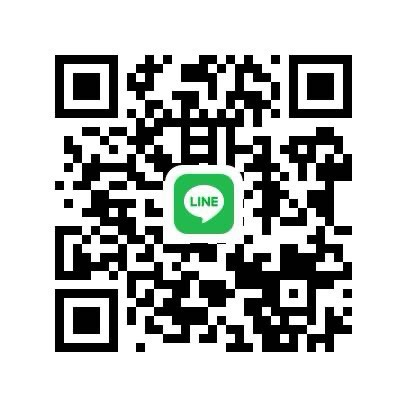
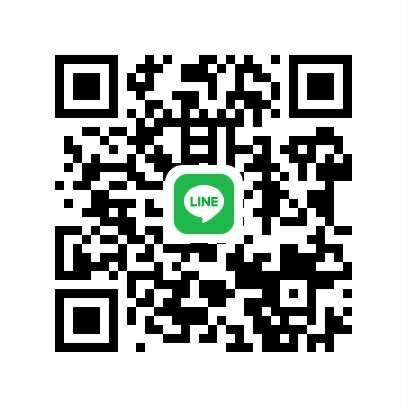
id line

Changed region(s): [[0.5294, 0.4706, 0.5588, 0.5], [0.4118, 0.4118, 0.4412, 0.4412]]

diff --git a/index.html b/index.html
@@ -198,7 +198,7 @@
             
             <img src="qrcode.jpg" alt="LINE QR Code" class="qr-code">
             
-            <a href="https://line.me/R/ti/p/~nuttanawat311249" class="line-button" target="_blank">
+            <a href="https://line.me/R/ti/p/~ann276087" class="line-button" target="_blank">
               <span lang="en">Chat with us on LINE</span>
               <span lang="th">แชทกับเราทางไลน์</span>
             </a>
